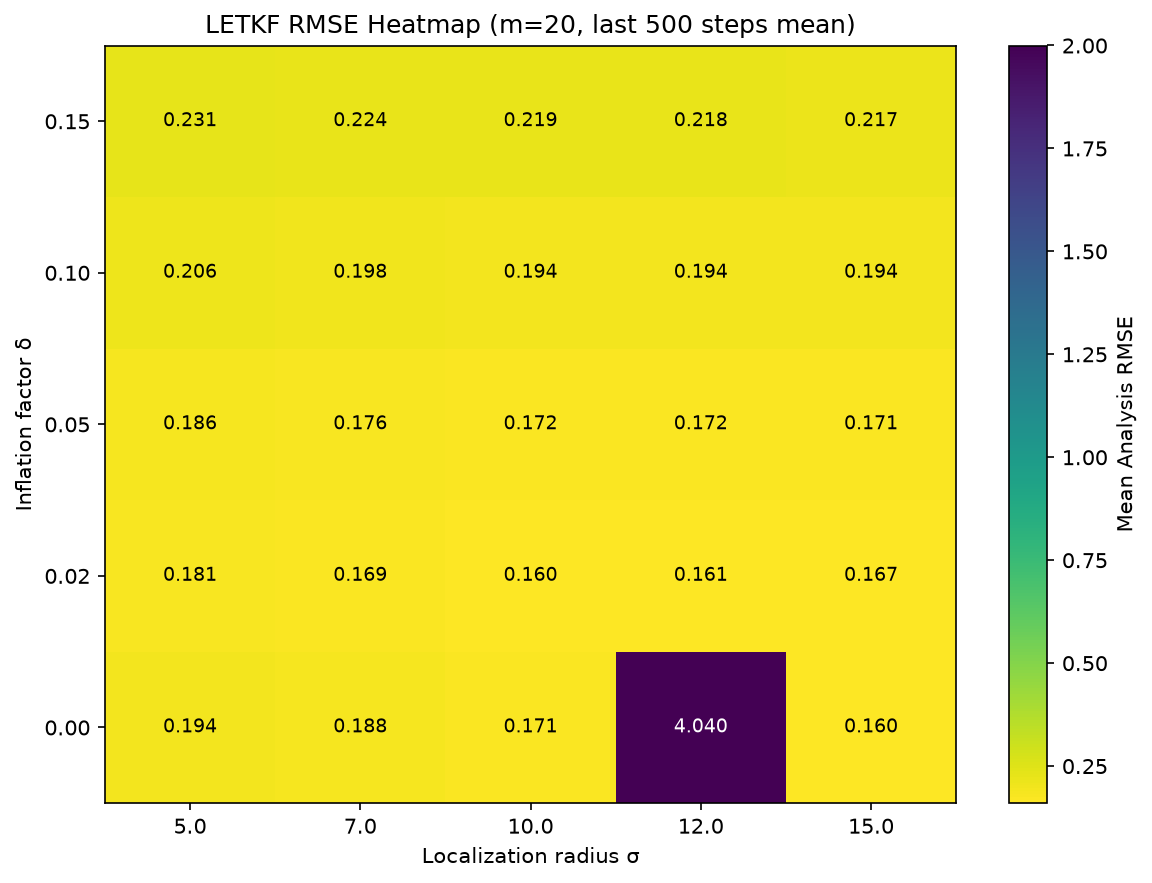
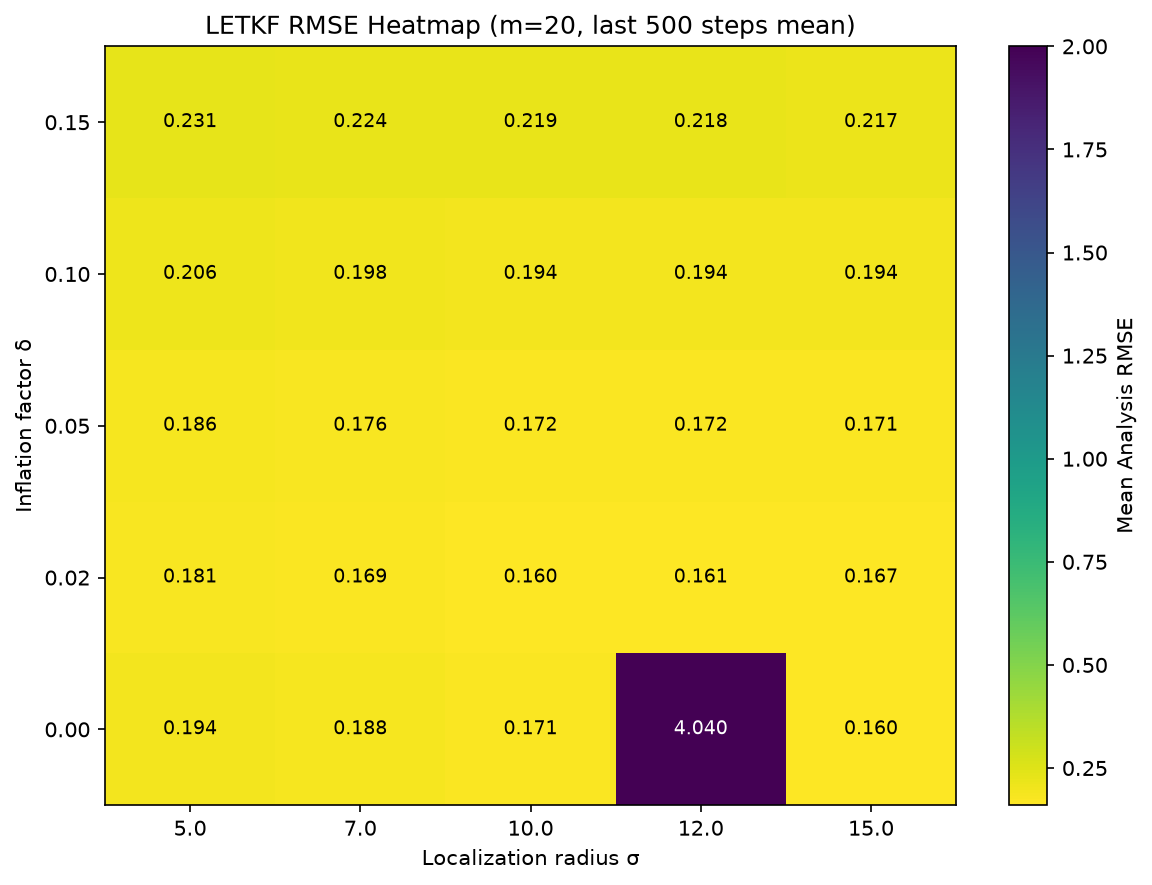
Add m=2 comparison

diff --git a/adaptive_inflation/slide_delta_init.py b/adaptive_inflation/slide_delta_init.py
@@ -1,0 +1,109 @@
+"""
+動的インフレーションの初期Δ比較
+  - delta_init = 固定最適値（ズルあり）vs Δ=1.0（何も知らない状態）
+  - m=3,8,20 で比較
+"""
+import numpy as np
+import matplotlib.pyplot as plt
+from function.create_data import createdata
+from function.run import run_LETKF_fixed, run_LETKF_adaptive
+
+N, F, dt = 40, 8.0, 0.05
+R        = np.eye(N)
+v_b      = 0.04 ** 2
+
+OPTIMAL = {
+    3:  {"sigma": 2.0,  "fixed_inf": 0.30, "delta_init": 1.30},
+    8:  {"sigma": 6.0,  "fixed_inf": 0.10, "delta_init": 1.10},
+    20: {"sigma": 10.0, "fixed_inf": 0.02, "delta_init": 1.02},
+}
+MEMBERS = [3, 8, 20]
+
+print("データ準備中...")
+truth, obs, spinup_states = createdata(N, F, dt)
+initial_background = obs[0].copy()
+
+results = {}
+for m in MEMBERS:
+    sigma     = OPTIMAL[m]["sigma"]
+    fixed_inf = OPTIMAL[m]["fixed_inf"]
+    delta_opt = OPTIMAL[m]["delta_init"]
+
+    print(f"\n--- m={m} ---")
+    print(f"  固定インフレ (ベースライン)...")
+    _, rmse_f, _, delta_f = run_LETKF_fixed(
+        truth, obs, dt, F, R, inflation=fixed_inf, m=m, sigma=sigma,
+        spinup_states=spinup_states, initial_background=initial_background
+    )
+
+    print(f"  動的 (delta_init=固定最適値 {delta_opt})...")
+    _, rmse_opt, _, delta_opt_hist = run_LETKF_adaptive(
+        truth, obs, dt, F, R, v_b=v_b, m=m, sigma=sigma,
+        spinup_states=spinup_states, initial_background=initial_background,
+        delta_init=delta_opt
+    )
+
+    print(f"  動的 (delta_init=1.0 何も知らない)...")
+    _, rmse_1, _, delta_1_hist = run_LETKF_adaptive(
+        truth, obs, dt, F, R, v_b=v_b, m=m, sigma=sigma,
+        spinup_states=spinup_states, initial_background=initial_background,
+        delta_init=1.0
+    )
+
+    results[m] = (rmse_f, delta_f, rmse_opt, delta_opt_hist, rmse_1, delta_1_hist)
+
+T = len(results[MEMBERS[0]][0])
+time_days = np.arange(1, T + 1) / 4.0
+
+fig, axes = plt.subplots(2, len(MEMBERS), figsize=(7 * len(MEMBERS), 6), sharex=True)
+fig.suptitle("動的インフレーション: delta_init=固定最適値 vs delta_init=1.0", fontsize=13)
+
+for col, m in enumerate(MEMBERS):
+    rmse_f, delta_f, rmse_opt, delta_opt_hist, rmse_1, delta_1_hist = results[m]
+    sigma     = OPTIMAL[m]["sigma"]
+    fixed_inf = OPTIMAL[m]["fixed_inf"]
+    delta_opt = OPTIMAL[m]["delta_init"]
+
+    # RMSE
+    ax = axes[0, col]
+    ax.plot(time_days, rmse_f,   color="blue",   lw=1.5, linestyle="--", label=f"Fixed δ={fixed_inf}")
+    ax.plot(time_days, rmse_opt, color="green",  lw=1.2, alpha=0.85, label=f"Adaptive (init={delta_opt})")
+    ax.plot(time_days, rmse_1,   color="red",    lw=1.2, alpha=0.85, label="Adaptive (init=1.0)")
+    ax.set_title(f"m={m}  (σ={sigma})", fontsize=11)
+    ax.set_ylabel("Analysis RMSE" if col == 0 else "")
+    ax.grid(True, linestyle="--", alpha=0.4)
+    ax.set_ylim(bottom=0)
+    ax.legend(fontsize=8, loc="upper right")
+    ax.text(0.02, 0.95,
+            f"Fixed:      {np.nanmean(rmse_f):.3f}\n"
+            f"Init=opt:  {np.nanmean(rmse_opt):.3f}\n"
+            f"Init=1.0:  {np.nanmean(rmse_1):.3f}",
+            transform=ax.transAxes, ha="left", va="top", fontsize=8,
+            bbox=dict(boxstyle="round,pad=0.2", fc="white", alpha=0.7))
+
+    # Δ
+    ax = axes[1, col]
+    ax.axhline(1.0 + fixed_inf, color="blue",  lw=1.5, linestyle="--", label=f"Fixed Δ={1+fixed_inf:.2f}")
+    ax.plot(time_days, delta_opt_hist, color="green", lw=1.2, alpha=0.85, label=f"Adaptive (init={delta_opt})")
+    ax.plot(time_days, delta_1_hist,   color="red",   lw=1.2, alpha=0.85, label="Adaptive (init=1.0)")
+    ax.set_ylabel("Inflation factor Δ" if col == 0 else "")
+    ax.set_xlabel("Time [days]")
+    ax.grid(True, linestyle="--", alpha=0.4)
+    ax.legend(fontsize=8, loc="upper right")
+
+plt.tight_layout()
+plt.savefig("slide_delta_init.png", dpi=150, bbox_inches="tight")
+plt.show()
+
+print("\n" + "=" * 62)
+print(f"{'m':>4} {'手法':<28} {'平均RMSE':>10} {'平均Δ':>10}")
+print("-" * 62)
+for m in MEMBERS:
+    rmse_f, delta_f, rmse_opt, delta_opt_hist, rmse_1, delta_1_hist = results[m]
+    fixed_inf = OPTIMAL[m]["fixed_inf"]
+    delta_opt = OPTIMAL[m]["delta_init"]
+    print(f"{m:>4} {'Fixed δ='+str(fixed_inf):<28} {np.nanmean(rmse_f):>10.4f} {1+fixed_inf:>10.3f}")
+    print(f"{m:>4} {'Adaptive (init='+str(delta_opt)+')':<28} {np.nanmean(rmse_opt):>10.4f} {np.nanmean(delta_opt_hist):>10.4f}")
+    print(f"{m:>4} {'Adaptive (init=1.0)':<28} {np.nanmean(rmse_1):>10.4f} {np.nanmean(delta_1_hist):>10.4f}")
+    print("-" * 62)
+print("=" * 62)

diff --git a/adaptive_inflation/slide_m2_vb.py b/adaptive_inflation/slide_m2_vb.py
@@ -1,0 +1,85 @@
+"""
+m=2: v_b を変えたときの動的インフレーションの挙動比較
+  固定最適（δ=0.80, σ=1.0）をベースラインとして比較
+"""
+import numpy as np
+import matplotlib.pyplot as plt
+from function.create_data import createdata
+from function.run import run_LETKF_fixed, run_LETKF_adaptive
+
+N, F, dt = 40, 8.0, 0.05
+m        = 2
+sigma    = 1.0
+R        = np.eye(N)
+FIXED_INF  = 0.80
+DELTA_INIT = 1.80
+
+VB_LIST = [0.04**2, 0.02**2, 0.01**2, 0.005**2]
+LABELS  = ["v_b=0.04² (現在)", "v_b=0.02²", "v_b=0.01²", "v_b=0.005²"]
+COLORS  = ["green", "orange", "purple", "brown"]
+
+print("データ準備中...")
+truth, obs, spinup_states = createdata(N, F, dt)
+initial_background = obs[0].copy()
+
+print("固定インフレ (ベースライン)...")
+_, rmse_f, spread_f, delta_f = run_LETKF_fixed(
+    truth, obs, dt, F, R, inflation=FIXED_INF, m=m, sigma=sigma,
+    spinup_states=spinup_states, initial_background=initial_background
+)
+
+results = []
+for v_b, label in zip(VB_LIST, LABELS):
+    print(f"動的インフレ ({label}) ...")
+    _, rmse_a, spread_a, delta_a = run_LETKF_adaptive(
+        truth, obs, dt, F, R, v_b=v_b, m=m, sigma=sigma,
+        spinup_states=spinup_states, initial_background=initial_background,
+        delta_init=DELTA_INIT
+    )
+    results.append((rmse_a, spread_a, delta_a))
+
+T = len(rmse_f)
+time_days = np.arange(1, T + 1) / 4.0
+
+fig, axes = plt.subplots(3, 1, figsize=(12, 10), sharex=True)
+fig.suptitle(f"m={m}, σ={sigma}  |  Fixed δ={FIXED_INF} vs Adaptive (v_b 比較)", fontsize=13)
+
+# RMSE
+ax = axes[0]
+ax.plot(time_days, rmse_f, color="blue", lw=1.5, linestyle="--", label=f"Fixed δ={FIXED_INF} (optimal)")
+for (rmse_a, _, _), label, color in zip(results, LABELS, COLORS):
+    ax.plot(time_days, rmse_a, color=color, lw=1.2, alpha=0.85, label=label)
+ax.set_ylabel("Analysis RMSE")
+ax.legend(loc="upper right", fontsize=9)
+ax.grid(True, linestyle="--", alpha=0.4)
+
+# Δ
+ax = axes[1]
+ax.axhline(1.0 + FIXED_INF, color="blue", linestyle="--", lw=1.5, label=f"Fixed Δ={1+FIXED_INF:.2f}")
+for (_, _, delta_a), label, color in zip(results, LABELS, COLORS):
+    ax.plot(time_days, delta_a, color=color, lw=1.2, alpha=0.85, label=label)
+ax.set_ylabel("Inflation factor Δ")
+ax.legend(loc="upper right", fontsize=9)
+ax.grid(True, linestyle="--", alpha=0.4)
+
+# Spread
+ax = axes[2]
+ax.plot(time_days, spread_f, color="blue", lw=1.5, linestyle="--", label=f"Fixed δ={FIXED_INF}")
+for (_, spread_a, _), label, color in zip(results, LABELS, COLORS):
+    ax.plot(time_days, spread_a, color=color, lw=1.2, alpha=0.85, label=label)
+ax.set_xlabel("Time [days]")
+ax.set_ylabel("Ensemble Spread (mean)")
+ax.legend(loc="upper right", fontsize=9)
+ax.grid(True, linestyle="--", alpha=0.4)
+
+plt.tight_layout()
+plt.savefig("slide_m2_vb.png", dpi=150, bbox_inches="tight")
+plt.show()
+
+print("\n" + "=" * 58)
+print(f"{'手法':<28} {'平均RMSE':>10} {'平均Δ':>10}")
+print("-" * 58)
+print(f"{'Fixed δ='+str(FIXED_INF):<28} {np.nanmean(rmse_f):>10.4f} {1+FIXED_INF:>10.3f}")
+for (rmse_a, _, delta_a), label in zip(results, LABELS):
+    print(f"{label:<28} {np.nanmean(rmse_a):>10.4f} {np.nanmean(delta_a):>10.4f}")
+print("=" * 58)

diff --git a/adaptive_inflation/slide_m2_heatmap.py b/adaptive_inflation/slide_m2_heatmap.py
@@ -1,0 +1,69 @@
+"""
+m=2 のヒートマップ: 最適固定インフレーションパラメータの探索
+m が小さいほど大きな δ・小さな σ が必要なため、探索範囲を広めに設定
+"""
+import numpy as np
+import matplotlib.pyplot as plt
+from function.create_data import createdata
+from function.run import run_LETKF_fixed
+
+N, F, dt = 40, 8.0, 0.05
+m = 2
+R = np.eye(N)
+
+inflation_values = np.array([0.20, 0.40, 0.60, 0.80, 1.00])
+sigma_values     = np.array([1.0, 1.5, 2.0, 2.5, 3.0])
+
+print("データ準備中...")
+truth, obs, spinup_states = createdata(N, F, dt)
+initial_background = obs[0].copy()
+
+rmse_map = np.zeros((len(inflation_values), len(sigma_values)))
+
+total = len(inflation_values) * len(sigma_values)
+count = 0
+for i, inf in enumerate(inflation_values):
+    for j, sig in enumerate(sigma_values):
+        count += 1
+        print(f"  [{count}/{total}] δ={inf:.2f}, σ={sig:.1f} ...", end="\r")
+        _, rmse_a, _, _ = run_LETKF_fixed(
+            truth, obs, dt, F, R, inflation=inf, m=m, sigma=sig,
+            spinup_states=spinup_states, initial_background=initial_background
+        )
+        rmse_map[i, j] = np.nanmean(rmse_a[-500:])
+
+print("\n\nヒートマップ描画中...")
+
+fig, ax = plt.subplots(figsize=(8, 6))
+im = ax.imshow(
+    rmse_map, cmap="viridis_r",
+    vmin=np.nanmin(rmse_map), vmax=min(np.nanmax(rmse_map), 2.0),
+    aspect="auto", origin="lower"
+)
+
+ax.set_xticks(range(len(sigma_values)))
+ax.set_xticklabels([f"{s:.1f}" for s in sigma_values])
+ax.set_yticks(range(len(inflation_values)))
+ax.set_yticklabels([f"{d:.2f}" for d in inflation_values])
+ax.set_xlabel("Localization radius σ")
+ax.set_ylabel("Inflation factor δ")
+ax.set_title(f"LETKF RMSE Heatmap (m={m}, last 500 steps mean)")
+
+for i in range(len(inflation_values)):
+    for j in range(len(sigma_values)):
+        val = rmse_map[i, j]
+        color = "white" if val > (np.nanmax(rmse_map) + np.nanmin(rmse_map)) / 2 else "black"
+        text = f"{val:.3f}" if np.isfinite(val) else "DIV"
+        ax.text(j, i, text, ha="center", va="center", fontsize=9, color=color)
+
+plt.colorbar(im, ax=ax, label="Mean Analysis RMSE")
+plt.tight_layout()
+plt.savefig("slide_m2_heatmap.png", dpi=150, bbox_inches="tight")
+plt.show()
+
+best_idx = np.unravel_index(np.nanargmin(rmse_map), rmse_map.shape)
+print(f"\n【最適パラメータ (m={m})】")
+print(f"  δ = {inflation_values[best_idx[0]]:.2f}")
+print(f"  σ = {sigma_values[best_idx[1]]:.1f}")
+print(f"  RMSE = {rmse_map[best_idx]:.4f}")
+print(f"\n→ slide4_ensemble.py の OPTIMAL[2] をこの値に更新してください")

diff --git a/adaptive_inflation/slide4_ensemble.py b/adaptive_inflation/slide4_ensemble.py
@@ -16,12 +16,14 @@ R        = np.eye(N)
 
 # m別の最適パラメータ（ヒートマップで確認済み）
 # delta_init: 動的inflationの初期Δ（固定最適値付近から始める）
+# m=2 の σ・fixed_inf は slide_m2_heatmap.py を実行して確認してから更新する
 OPTIMAL = {
+    2:  {"sigma": 1.0,  "fixed_inf": 0.80, "delta_init": 1.80},  # m=2: RMSE=0.4876 (ヒートマップ確認済み)
     3:  {"sigma": 2.0,  "fixed_inf": 0.30, "delta_init": 1.30},  # m=3: RMSE=0.344 (ヒートマップ確認済み)
     8:  {"sigma": 6.0,  "fixed_inf": 0.10, "delta_init": 1.10},  # m=8: RMSE=0.193 (ヒートマップ確認済み)
     20: {"sigma": 10.0, "fixed_inf": 0.02, "delta_init": 1.02},  # m=20: RMSE=0.160 (ヒートマップ確認済み)
 }
-MEMBERS = [3, 8, 20]
+MEMBERS = [2, 3, 8, 20]
 
 print("データ準備中...")
 truth, obs, spinup_states = createdata(N, F, dt)
@@ -57,7 +59,7 @@ time_days = np.arange(1, T + 1) / 4.0
 COLOR_FIXED    = "blue"
 COLOR_ADAPTIVE = "green"
 
-fig, axes = plt.subplots(2, 3, figsize=(20, 6), sharex=True)
+fig, axes = plt.subplots(2, len(MEMBERS), figsize=(7 * len(MEMBERS), 6), sharex=True)
 fig.suptitle(
     f"LETKF: Fixed (m別最適値) vs Adaptive (Miyoshi 2011) — v_b={v_b:.4f}",
     fontsize=13

diff --git a/adaptive_inflation/README.md b/adaptive_inflation/README.md
@@ -112,16 +112,16 @@ adaptive_inflation/
 
 ```bash
 # ヒートマップ（最適固定値の確認）
-python slide2_settings.py
+python3 slide2_settings.py
 
 # 固定 vs 動的 比較（m=20）
-python slide3_compare_fixed.py
+python3 slide3_compare_fixed.py
 
 # 固定 vs 動的 比較（m=10）
-python slide3_m10.py
+python3 slide3_m10.py
 
 # アンサンブル数 m=3,8,20 の比較
-python slide4_ensemble.py
+python3 slide4_ensemble.py
 ```
 
 ### 依存パッケージ